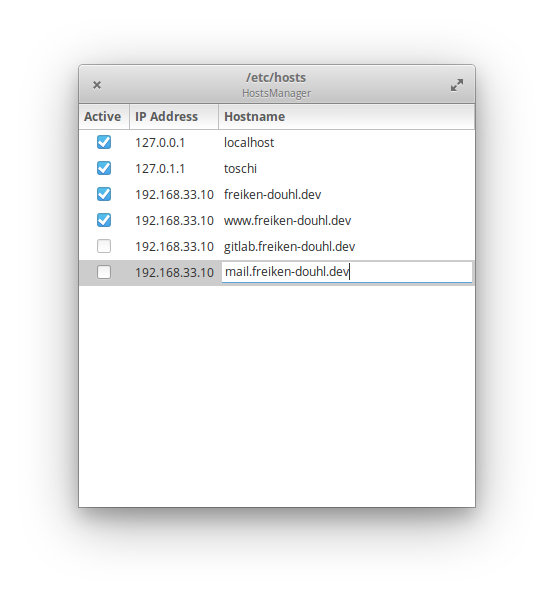
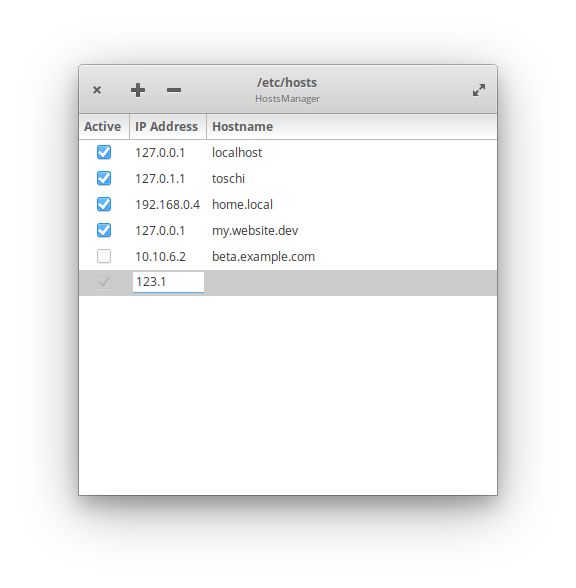
Updated README.md and screenshot

Changed region(s): [[0.1227, 0.0918, 0.8899, 0.8571]]

diff --git a/README.md b/README.md
@@ -2,6 +2,16 @@
 
 Managing your `/etc/hosts` file.
 
+<p align="right">
+  <a href="https://appcenter.elementary.io/com.github.bbuhler.hostsmanager" style="float:right">
+    <img alt="Get it on AppCenter" src="https://appcenter.elementary.io/badge.svg">
+  </a>
+</p>
+
+<p align="center">
+  <img alt="Screenshot" src="./data/screenshots/main.png">
+</p>
+
 ### Compile & install
 ```sh
 meson build --prefix=/usr
@@ -9,14 +19,3 @@ cd build
 ninja
 sudo ninja install
 ```
-
-### Features / Ideas
-- [x] Show IP addresses and hostnames
-- [x] Show inactive toggle button for comment out ones
-- [x] Toggle button should add/remove line comment (#1)
-- [ ] Add new entry (#2)
-- [x] Edit entry (#3)
-- [ ] Remove entry (#5)
-- [ ] Grouping / sections
-- [ ] Edit IP address of multiple selected entries
-- [ ] Automatically update IP addresses using `dig` (?)
